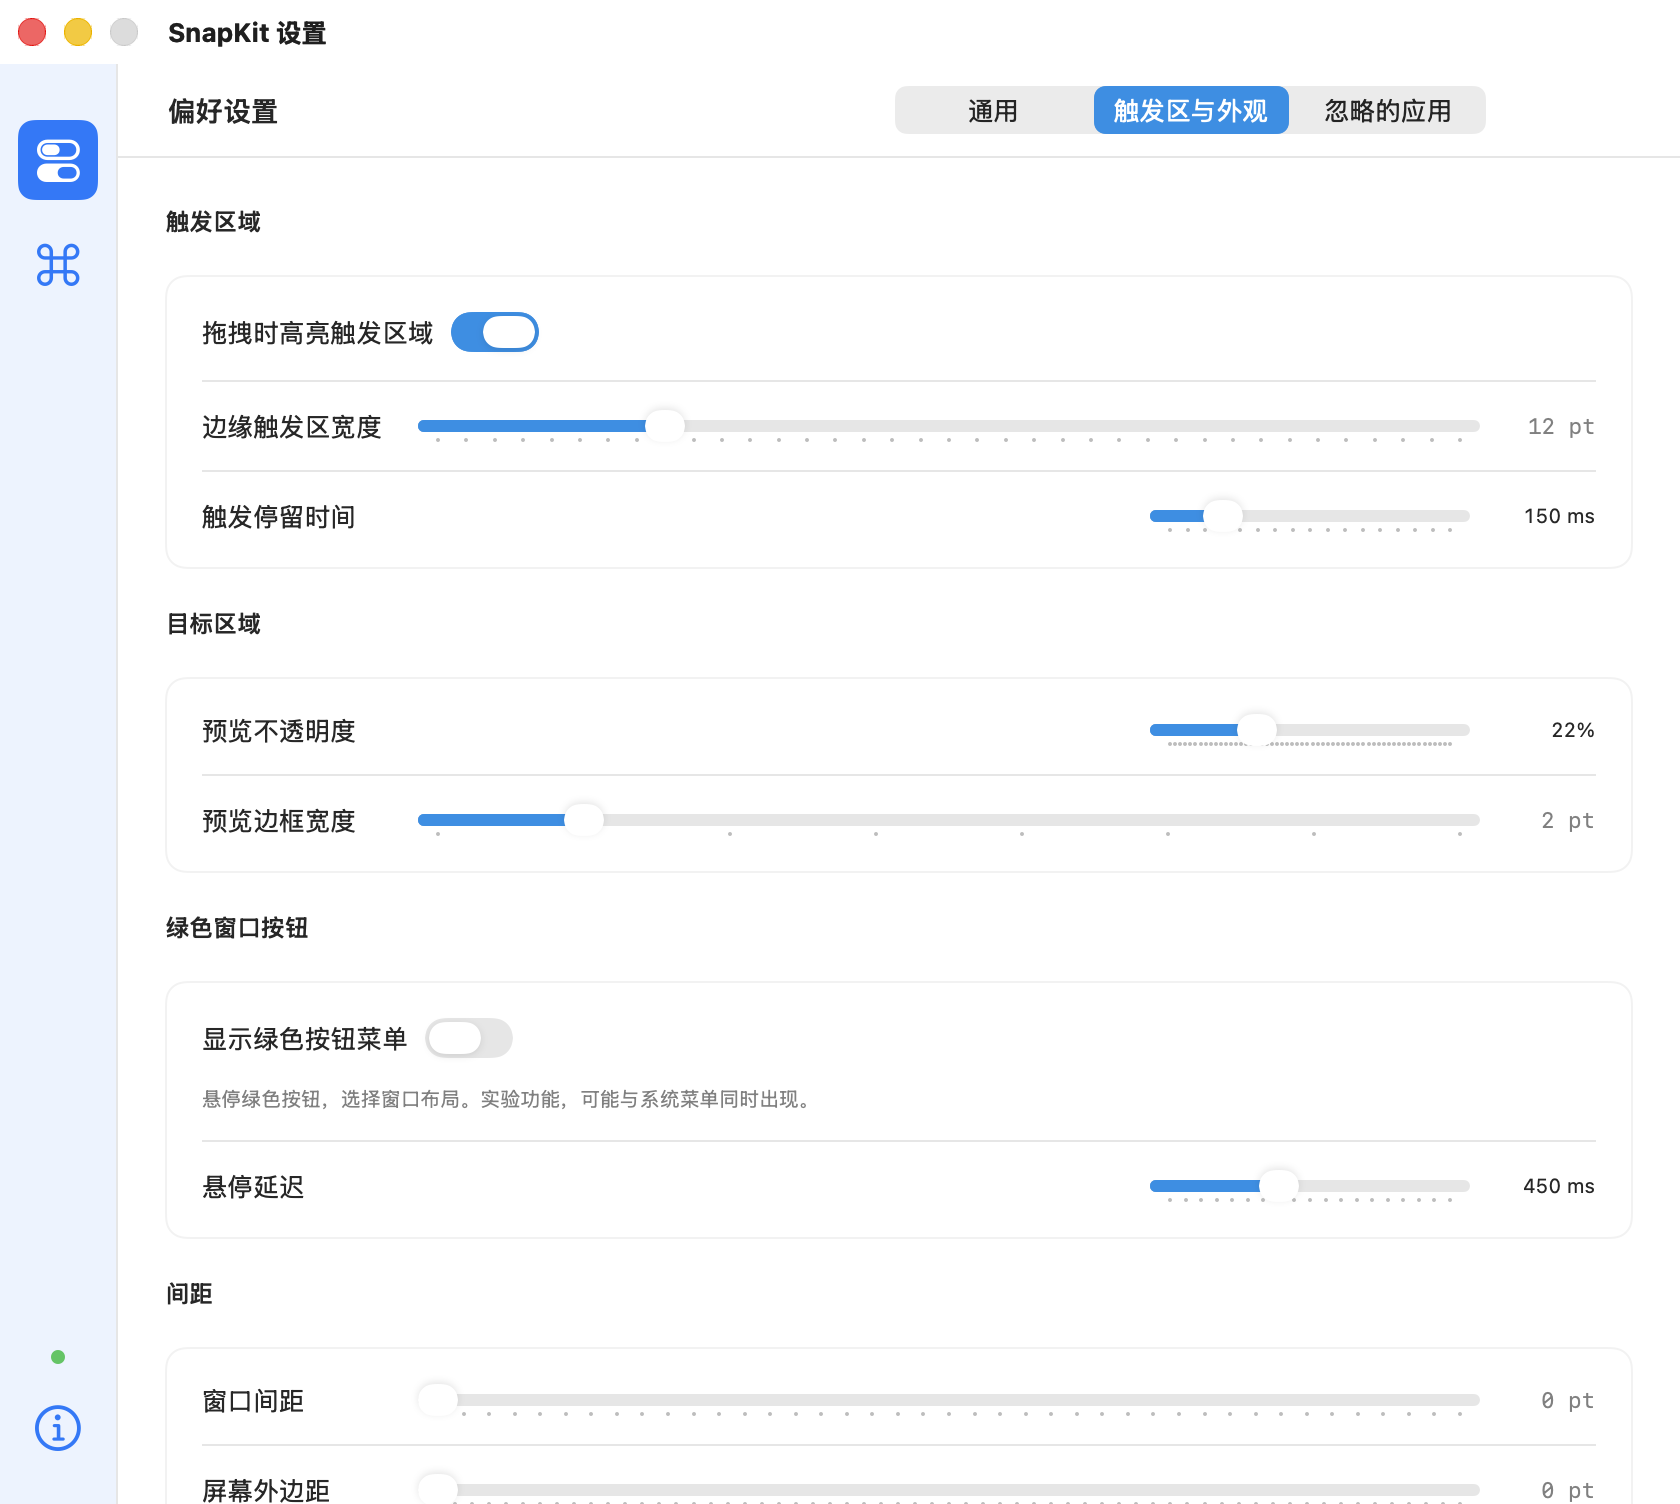
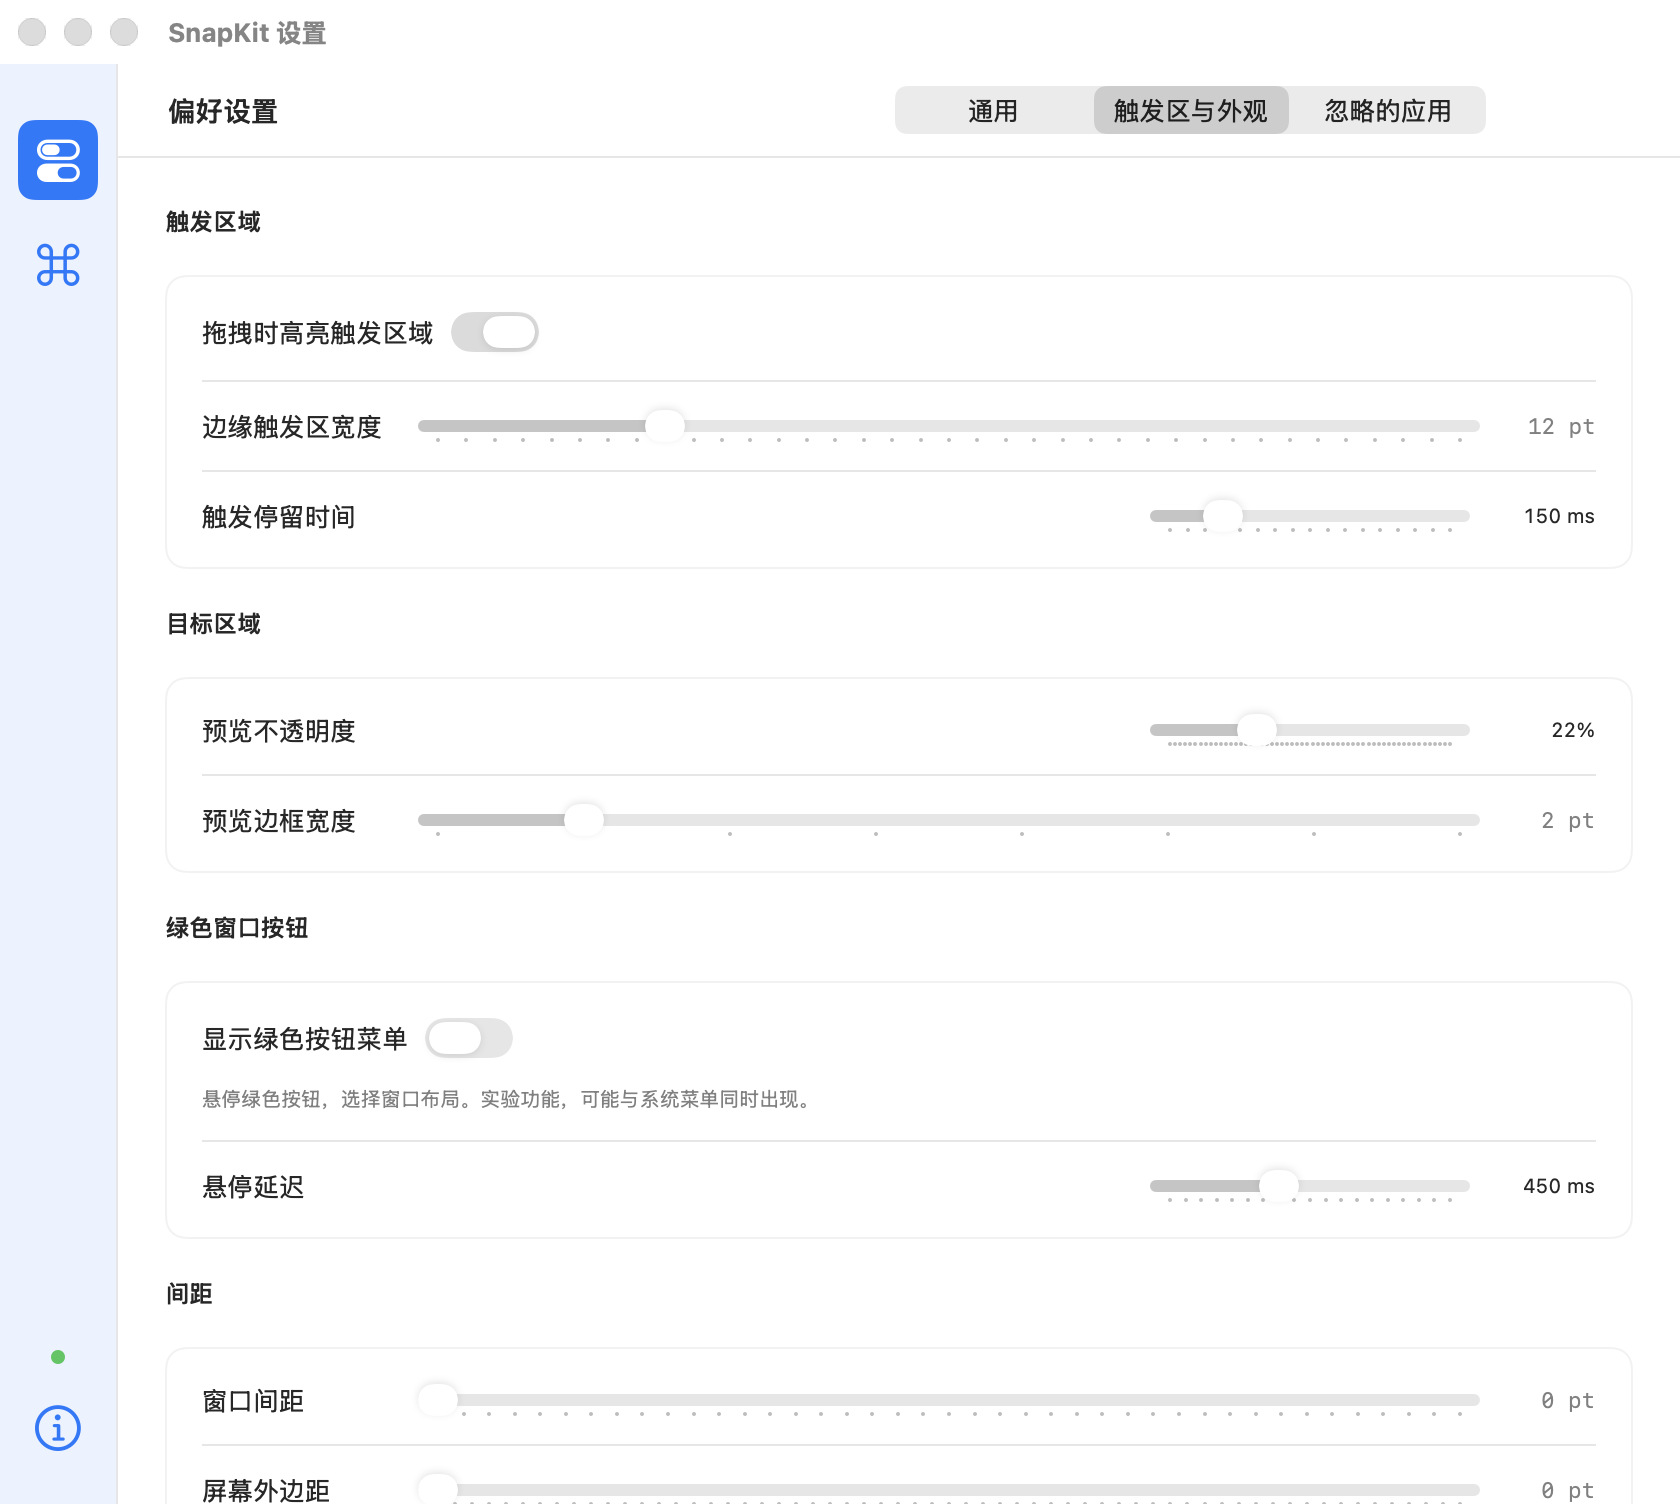
Release 1.1.1 with Developer ID signing and Apple notarization

diff --git a/Docs/Notarization.md b/Docs/Notarization.md
@@ -1,0 +1,36 @@
+# Developer ID signing and Apple notarization
+
+The 1.1.1 (build 4) release uses a Developer ID Application signature, Hardened Runtime and an Apple notarization ticket stapled to `SnapKit.app`. The DMG and ZIP contain this exact notarized application. The outer DMG is a transport container, not a separately notarized installer package.
+
+Verification after extracting or copying the app:
+
+```sh
+codesign --verify --deep --strict /path/to/SnapKit.app
+xcrun stapler validate /path/to/SnapKit.app
+spctl --assess --type execute --verbose=2 /path/to/SnapKit.app
+```
+
+Gatekeeper must report `accepted` and `source=Notarized Developer ID`. Notarization is not App Store review or a guarantee of complete functionality.
+
+## Reproduce a release
+
+Install full Xcode, sign into an Apple Developer account with permission to use Developer ID, and have a matching development signing identity available. Xcode can use its cloud-managed Developer ID certificate; exporting its private key is unnecessary.
+
+```sh
+SNAPKIT_TEAM_ID=YOUR_TEAM_ID \
+SNAPKIT_SIGNING_IDENTITY='Apple Development: your identity' \
+./Scripts/archive-release.sh .build/notarization/release
+```
+
+The script builds an archive and uploads it using Xcode's authenticated account. An upload success alone does not mean notarization has passed. Once processing completes, export the notarized application:
+
+```sh
+xcodebuild -exportNotarizedApp \
+  -archivePath .build/notarization/release/SnapKit.xcarchive \
+  -exportPath .build/notarization/release/Notarized
+./Scripts/package-notarized.sh .build/notarization/release/Notarized/SnapKit.app
+```
+
+The packaging script checks the code signature, stapled ticket and Gatekeeper assessment before generating the DMG and ZIP. Do not run the ordinary build script over a notarized release: its default local build uses an ad-hoc signature. Keep signing credentials, Xcode distribution logs and archives out of Git.
+
+Apple references: [Notarizing macOS software](https://developer.apple.com/documentation/security/notarizing-macos-software-before-distribution), [Cloud-managed certificates](https://developer.apple.com/help/account/certificates/cloud-managed-certificates).

diff --git a/README.md b/README.md
@@ -25,14 +25,14 @@ Actual English app windows, exported from the running application. Chinese captu
 
 ## Installation
 
-The current downloadable build is **v1.1.0 for Apple Silicon, macOS 13+**.
+The current downloadable build is **v1.1.1 for Apple Silicon, macOS 13+**.
 
 1. Download the DMG from [Releases](https://github.com/luchuangao/SnapKit/releases/latest).
 2. Open it and drag SnapKit to Applications.
-3. Open SnapKit. This local build is **ad-hoc signed and not Apple-notarized**; macOS may require approval in System Settings → Privacy & Security before opening it.
+3. Open SnapKit. The official release is **Developer ID signed and Apple-notarized**, with the notarization ticket attached to the app.
 4. Enable SnapKit in System Settings → Privacy & Security → Accessibility so it can move other applications’ windows.
 
-SnapKit runs in the menu bar. Reopen the app or press `⌘,` while Settings is active to reach its settings. No automatic updater is included.
+SnapKit runs in the menu bar. Reopen the app or press `⌘,` while Settings is active to reach its settings. No automatic updater is included. See [signing and notarization](Docs/Notarization.md) for verification and release instructions.
 
 ## Shortcuts
 
